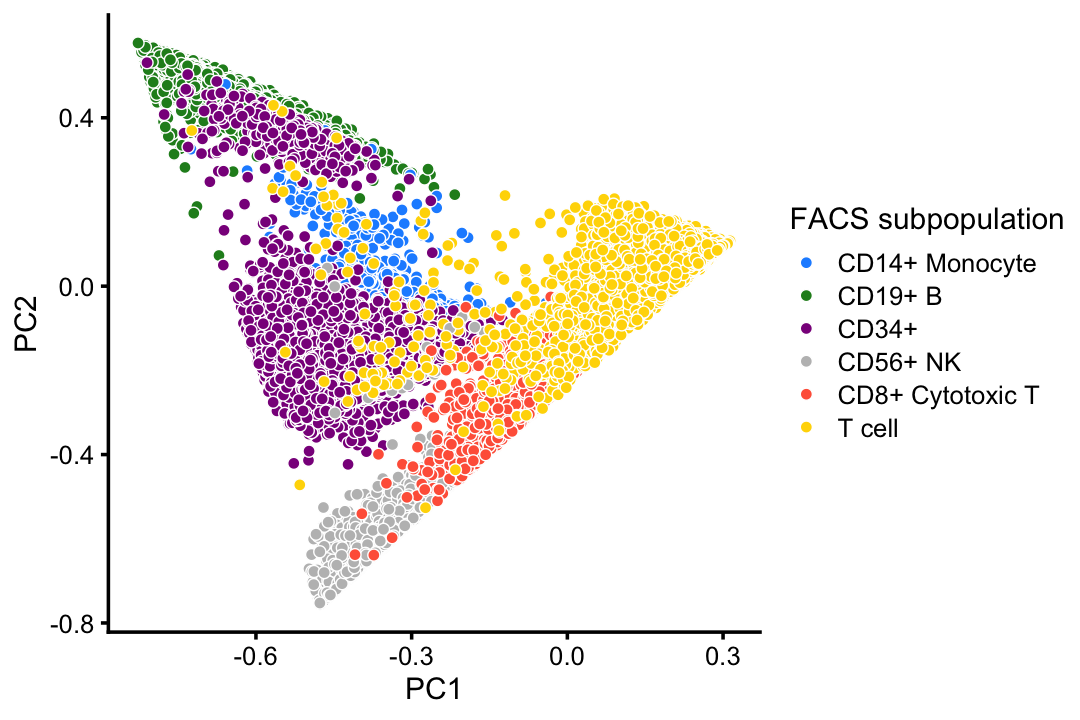
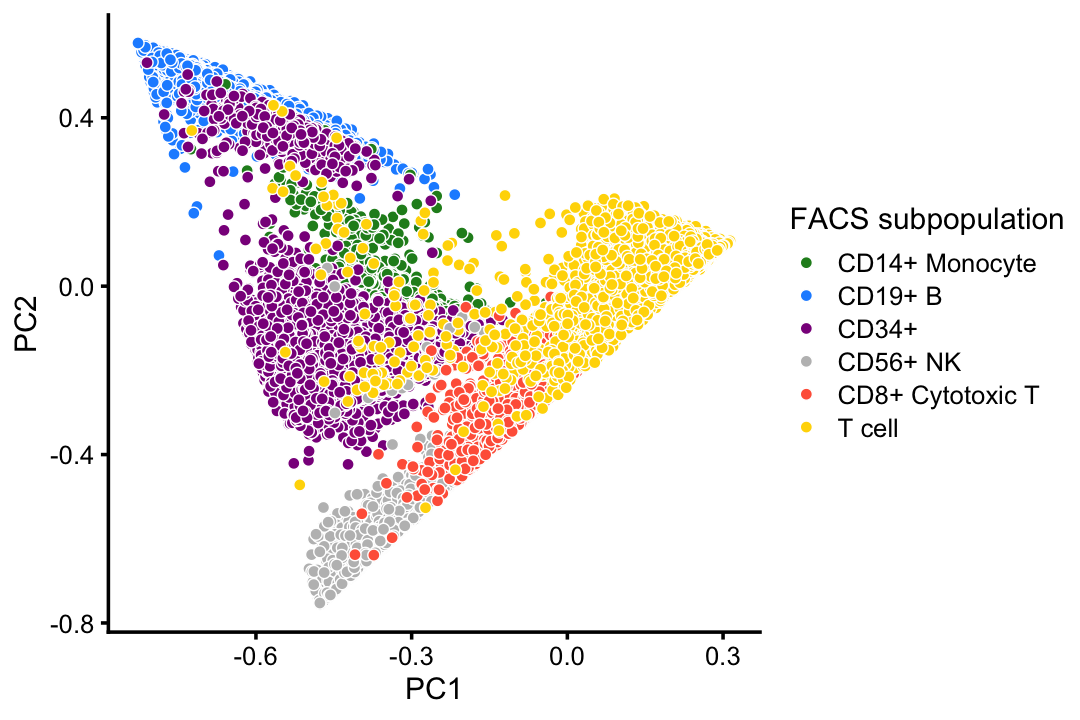
Fixed PCA plot in clusters_purified_pbmc analysis showing FACS subpopulations.

diff --git a/docs/clusters_purified_pbmc.html b/docs/clusters_purified_pbmc.html
@@ -323,7 +323,7 @@ $(document).ready(function () {
 <div class="tab-content">
 <div id="summary" class="tab-pane fade in active">
 <p>
-<strong>Last updated:</strong> 2021-01-03
+<strong>Last updated:</strong> 2021-01-04
 </p>
 <p>
 <strong>Checks:</strong> <span class="glyphicon glyphicon-ok text-success" aria-hidden="true"></span> 7 <span class="glyphicon glyphicon-exclamation-sign text-danger" aria-hidden="true"></span> 0
@@ -414,16 +414,16 @@ This reproducible <a href="http://rmarkdown.rstudio.com">R Markdown</a> analysis
 <div class="panel panel-default">
 <div class="panel-heading">
 <p class="panel-title">
-<a data-toggle="collapse" data-parent="#workflowr-checks" href="#strongRepositoryversionstrongahrefhttpsgithubcomstephenslabsinglecelltopicstreedc46e8edf09fcf0da4df1c4b9f41007f6cebeca0targetblankdc46e8ea"> <span class="glyphicon glyphicon-ok text-success" aria-hidden="true"></span> <strong>Repository version:</strong> <a href="https://github.com/stephenslab/single-cell-topics/tree/dc46e8edf09fcf0da4df1c4b9f41007f6cebeca0" target="_blank">dc46e8e</a> </a>
+<a data-toggle="collapse" data-parent="#workflowr-checks" href="#strongRepositoryversionstrongahrefhttpsgithubcomstephenslabsinglecelltopicstree742b1c33306e8e84e3ee835d2fdbedf599f79f1btargetblank742b1c3a"> <span class="glyphicon glyphicon-ok text-success" aria-hidden="true"></span> <strong>Repository version:</strong> <a href="https://github.com/stephenslab/single-cell-topics/tree/742b1c33306e8e84e3ee835d2fdbedf599f79f1b" target="_blank">742b1c3</a> </a>
 </p>
 </div>
[2 lines of base64/hex data omitted]
 <div class="panel-body">
 <p>
 Great! You are using Git for version control. Tracking code development and connecting the code version to the results is critical for reproducibility.
 </p>
 <p>
-The results in this page were generated with repository version <a href="https://github.com/stephenslab/single-cell-topics/tree/dc46e8edf09fcf0da4df1c4b9f41007f6cebeca0" target="_blank">dc46e8e</a>. See the <em>Past versions</em> tab to see a history of the changes made to the R Markdown and HTML files.
+The results in this page were generated with repository version <a href="https://github.com/stephenslab/single-cell-topics/tree/742b1c33306e8e84e3ee835d2fdbedf599f79f1b" target="_blank">742b1c3</a>. See the <em>Past versions</em> tab to see a history of the changes made to the R Markdown and HTML files.
 </p>
 <p>
 Note that you need to be careful to ensure that all relevant files for the analysis have been committed to Git prior to generating the results (you can use <code>wflow_publish</code> or <code>wflow_git_commit</code>). workflowr only checks the R Markdown file, but you know if there are other scripts or data files that it depends on. Below is the status of the Git repository when the results were generated:
@@ -447,9 +447,10 @@ Ignored files:
     Ignored:    output/pulseseq/rds/
 
 Untracked files:
-    Untracked:  .DS_Store
-    Untracked:  analysis/clustering-pbmc-purified.rds
     Untracked:  plots/
+
+Unstaged changes:
+    Modified:   analysis/loglik_purified_pbmc.Rmd
 
 </code></pre>
 <p>
@@ -488,6 +489,40 @@ Message
 </tr>
 </thead>
 <tbody>
+<tr>
+<td>
+Rmd
+</td>
+<td>
+<a href="https://github.com/stephenslab/single-cell-topics/blob/742b1c33306e8e84e3ee835d2fdbedf599f79f1b/analysis/clusters_purified_pbmc.Rmd" target="_blank">742b1c3</a>
+</td>
+<td>
+Peter Carbonetto
+</td>
+<td>
+2021-01-04
+</td>
+<td>
+workflowr::wflow_publish(“clusters_purified_pbmc.Rmd”)
+</td>
+</tr>
+<tr>
+<td>
+html
+</td>
+<td>
+<a href="https://rawcdn.githack.com/stephenslab/single-cell-topics/97c9bec36492bfcf150fe1b9bd1540fbe223373d/docs/clusters_purified_pbmc.html" target="_blank">97c9bec</a>
+</td>
+<td>
+Peter Carbonetto
+</td>
+<td>
+2021-01-03
+</td>
+<td>
+Adjusted Structure plot in clusters_purified_pbmc analysis.
+</td>
+</tr>
 <tr>
 <td>
 Rmd
@@ -1418,8 +1453,8 @@ Peter Carbonetto
 #   CD4+/CD45RA+/CD25- Naive T       1     0     8    27         5     1 10437
 #   CD4+/CD25 T Reg                  2     0     2    24         3     0 10232</code></pre>
 <p>Compare the FACS subpopulations projected onto the top two PCs with the clustering in the PCA plot above:</p>
-<pre class="r"><code>facs_colors &lt;- c(&quot;dodgerblue&quot;,  # B cells
-                 &quot;forestgreen&quot;, # CD14+
+<pre class="r"><code>facs_colors &lt;- c(&quot;forestgreen&quot;, # CD14+
+                 &quot;dodgerblue&quot;,  # B cells
                  &quot;darkmagenta&quot;, # CD34+
                  &quot;gray&quot;,        # NK cells
                  &quot;tomato&quot;,      # cytotoxic T cells
@@ -1704,6 +1739,17 @@ Date
 <tbody>
 <tr>
 <td>
+<a href="https://github.com/stephenslab/single-cell-topics/blob/97c9bec36492bfcf150fe1b9bd1540fbe223373d/docs/figure/clusters_purified_pbmc.Rmd/structure-plot-2-1.png" target="_blank">97c9bec</a>
+</td>
+<td>
+Peter Carbonetto
+</td>
+<td>
+2021-01-03
+</td>
+</tr>
+<tr>
+<td>
 <a href="https://github.com/stephenslab/single-cell-topics/blob/b137aaab8cdf340297b763c72d74deafe83c4b4b/docs/figure/clusters_purified_pbmc.Rmd/structure-plot-2-1.png" target="_blank">b137aaa</a>
 </td>
 <td>
@@ -1753,7 +1799,7 @@ Peter Carbonetto
 # [1] stats     graphics  grDevices utils     datasets  methods   base     
 # 
 # other attached packages:
-# [1] cowplot_1.0.0     ggplot2_3.3.0     fastTopics_0.4-11 Matrix_1.2-18    
+# [1] cowplot_1.0.0     ggplot2_3.3.0     fastTopics_0.4-13 Matrix_1.2-18    
 # 
 # loaded via a namespace (and not attached):
 #  [1] ggrepel_0.9.0        Rcpp_1.0.5           lattice_0.20-38     
